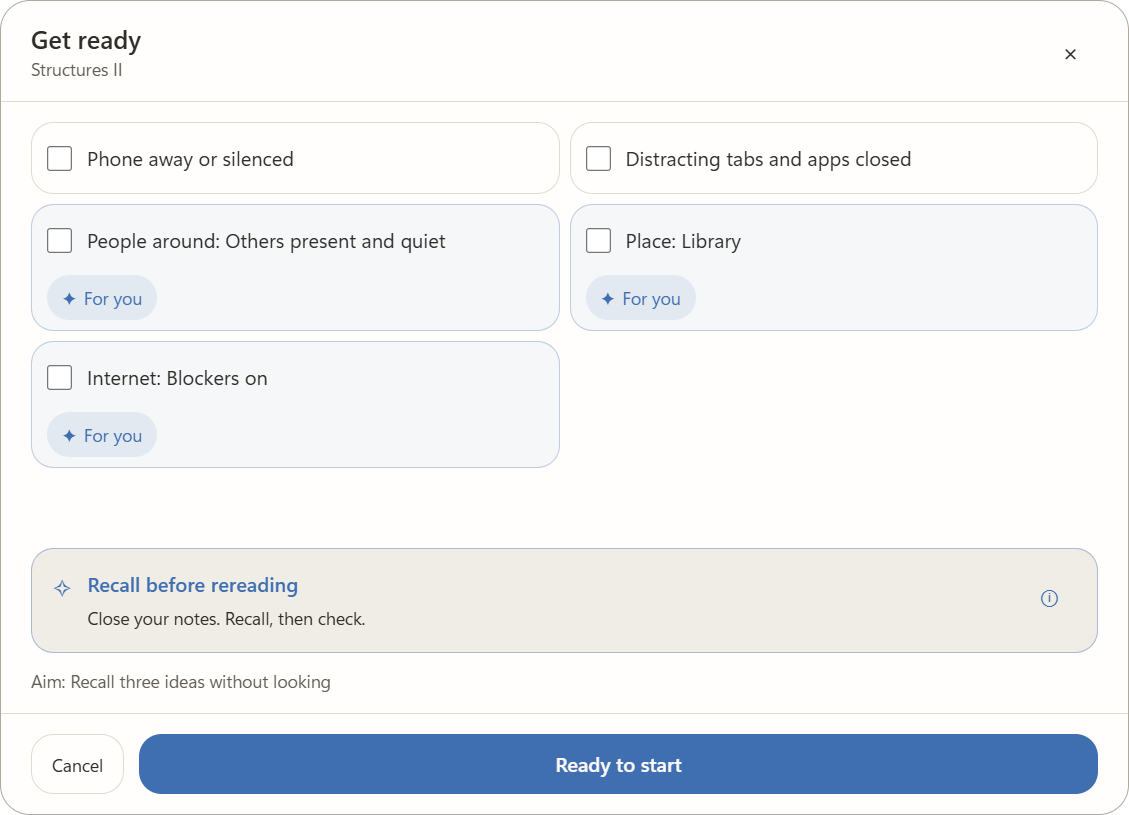
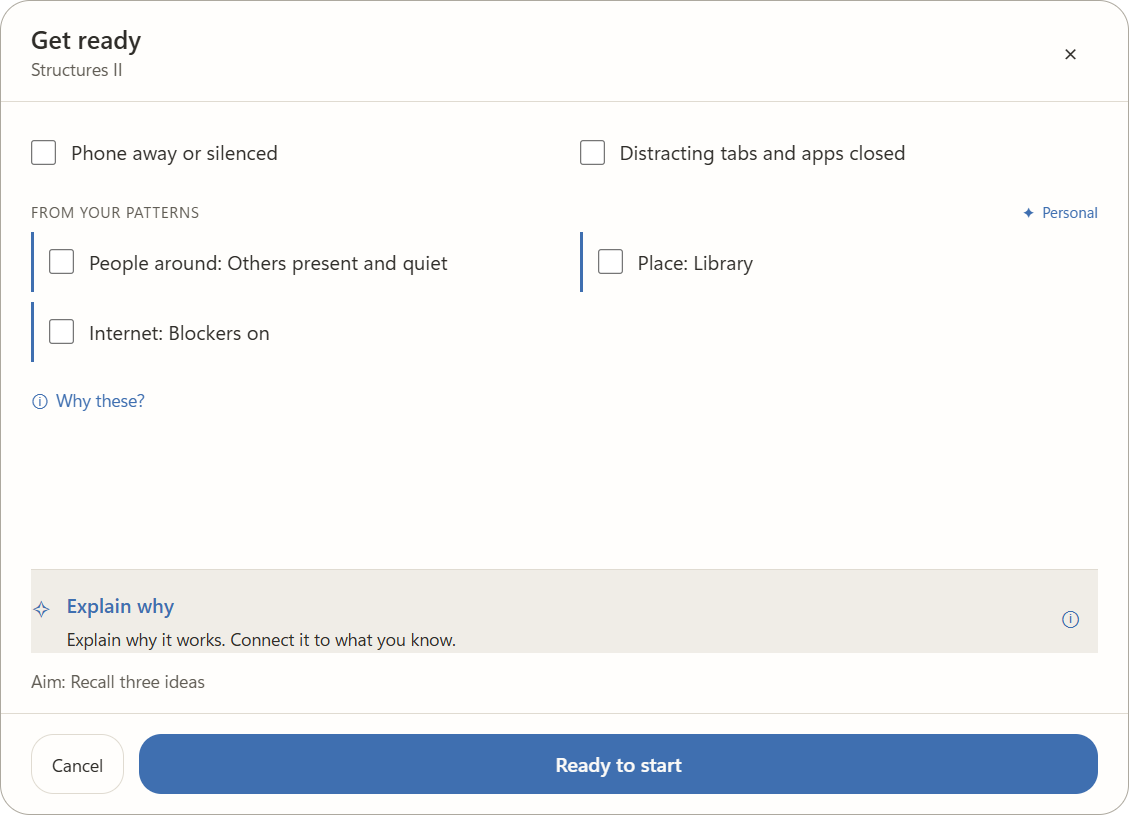
Enlarge workflow and Stats screenshots and showcase Quiet signals

diff --git a/USER_GUIDE.md b/USER_GUIDE.md
@@ -54,7 +54,7 @@ Press **Start**. With preparation enabled, a separate preparation sheet opens be
 
 *Checks are optional and transient. They are not stored as completed habits.*
 
-Tick anything useful and press **Ready to start**. **Cancel** abandons the unstarted preparation while preserving the plan/goal. The timer starts only after Ready. The two defaults are phone away/silenced and distracting apps/tabs closed. Up to five extra checks appear only when your recent records show repeated positive focus or recall patterns for the selected subject and activity, such as a particular drink or study place. A blue ✦ For you marker identifies personal suggestions; select it to see the evidence. New or sparse histories show only the defaults. Water is not a fixed reminder.
+Tick anything useful and press **Ready to start**. **Cancel** abandons the unstarted preparation while preserving the plan/goal. The timer starts only after Ready. The two defaults are phone away/silenced and distracting apps/tabs closed. Up to five extra checks appear only when your recent records show repeated positive focus or recall patterns for the selected subject and activity, such as a particular drink or study place. Blue side markers identify personal suggestions. Select **Why these?** for the supporting patterns. New or sparse histories show only the defaults. Water is not a fixed reminder.
 
 Personal checks use active categorical setup/detail choices from the last 90 days, exclude untouched answers and mixed-subject sessions, and need comparable records on both sides across multiple days with the direction repeated over time. They describe associations, not proof of cause or health advice. Checks do not record answers, change your planned setup or log a drink automatically. Settings can disable preparation; older custom checklist text is retained in saved settings. General learning tips rotate separately from these personal checks.
 

diff --git a/README.md b/README.md
@@ -27,10 +27,23 @@ Clear distractions, set an aim, then start when you are ready.
 
 ![Preparation before the timer starts](screenshots/preparation.png)
 
-| Recall what you learned | Record how it went | Take a break |
-| --- | --- | --- |
-| ![Filled recall page with fictional study notes](screenshots/recall.png) | ![Configurable session logging](screenshots/session-log.png) | ![Rest planning](screenshots/rest.png) |
-| Write or draw from memory. | Choose the questions you want to track. | Rest, then continue or finish your sitting. |
+### Recall what you learned
+
+Write or draw from memory.
+
+![Filled recall page with fictional study notes](screenshots/recall.png)
+
+### Record how it went
+
+Choose the questions you want to track.
+
+![Configurable session logging](screenshots/session-log.png)
+
+### Take a break
+
+Rest, then continue or finish your sitting.
+
+![Rest planning](screenshots/rest.png)
 
 ## Keep your controls close
 
@@ -52,9 +65,13 @@ Mark distractions, switch subjects and park thoughts without leaving your work.
 | Am I building a routine? | Follow weekly time, subject progress and the yearly heatmap. |
 | What should I try next? | Pick one change, save an experiment and compare later sessions. |
 
-| Conditions and outcomes | Time patterns |
-| --- | --- |
-| ![Condition comparisons using fictional ratings](screenshots/stats-conditions.png) | ![Focus ratings by time and day](screenshots/stats-timing.png) |
+### Conditions and outcomes
+
+![Condition comparisons using fictional ratings](screenshots/stats-conditions.png)
+
+### Time patterns
+
+![Focus ratings by time and day](screenshots/stats-timing.png)
 
 *Patterns reflect your recorded ratings, not proof of cause.*
 

diff --git a/RELEASE_NOTES.md b/RELEASE_NOTES.md
@@ -1,6 +1,6 @@
 # Learnalyt 0.1.0-beta.1
 
-Simpler screens, compact ✦ For you preparation suggestions with optional evidence, and a fully visible study tip. The main timer keeps three controls; thought capture remains in the floating timer.
+Simpler screens, Quiet signals preparation with blue personal markers and optional evidence, and a fully visible study tip. The main timer keeps three controls; thought capture remains in the floating timer.
 
 Private beta candidate prepared for an unpublished draft prerelease. Public distribution is not approved.
 
